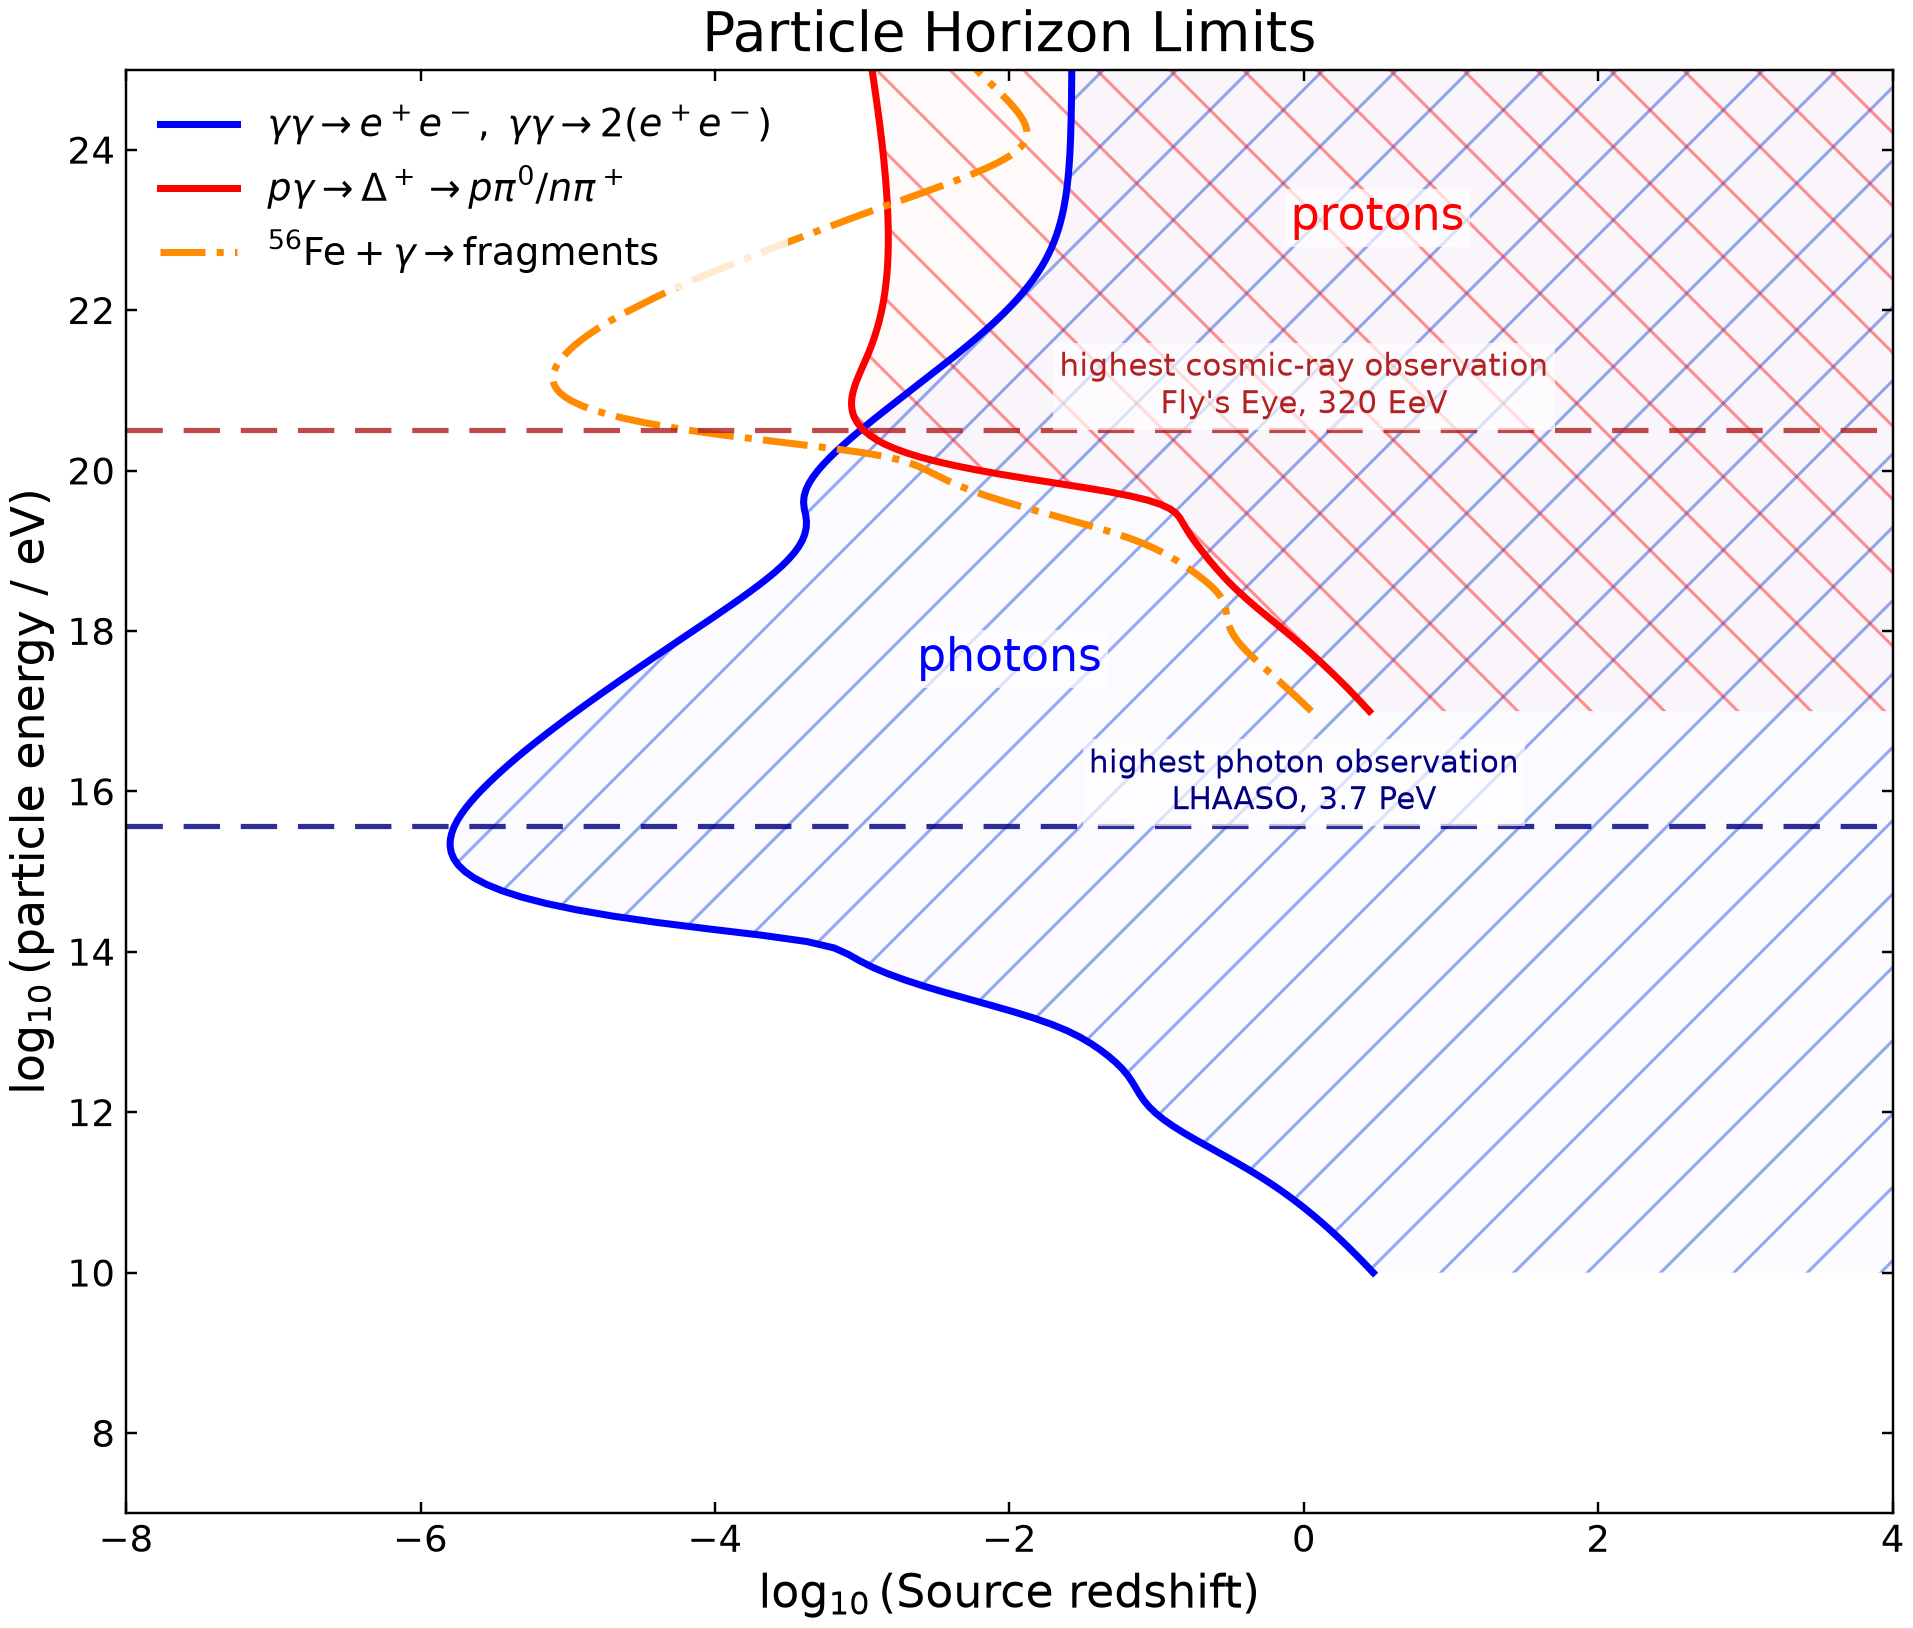
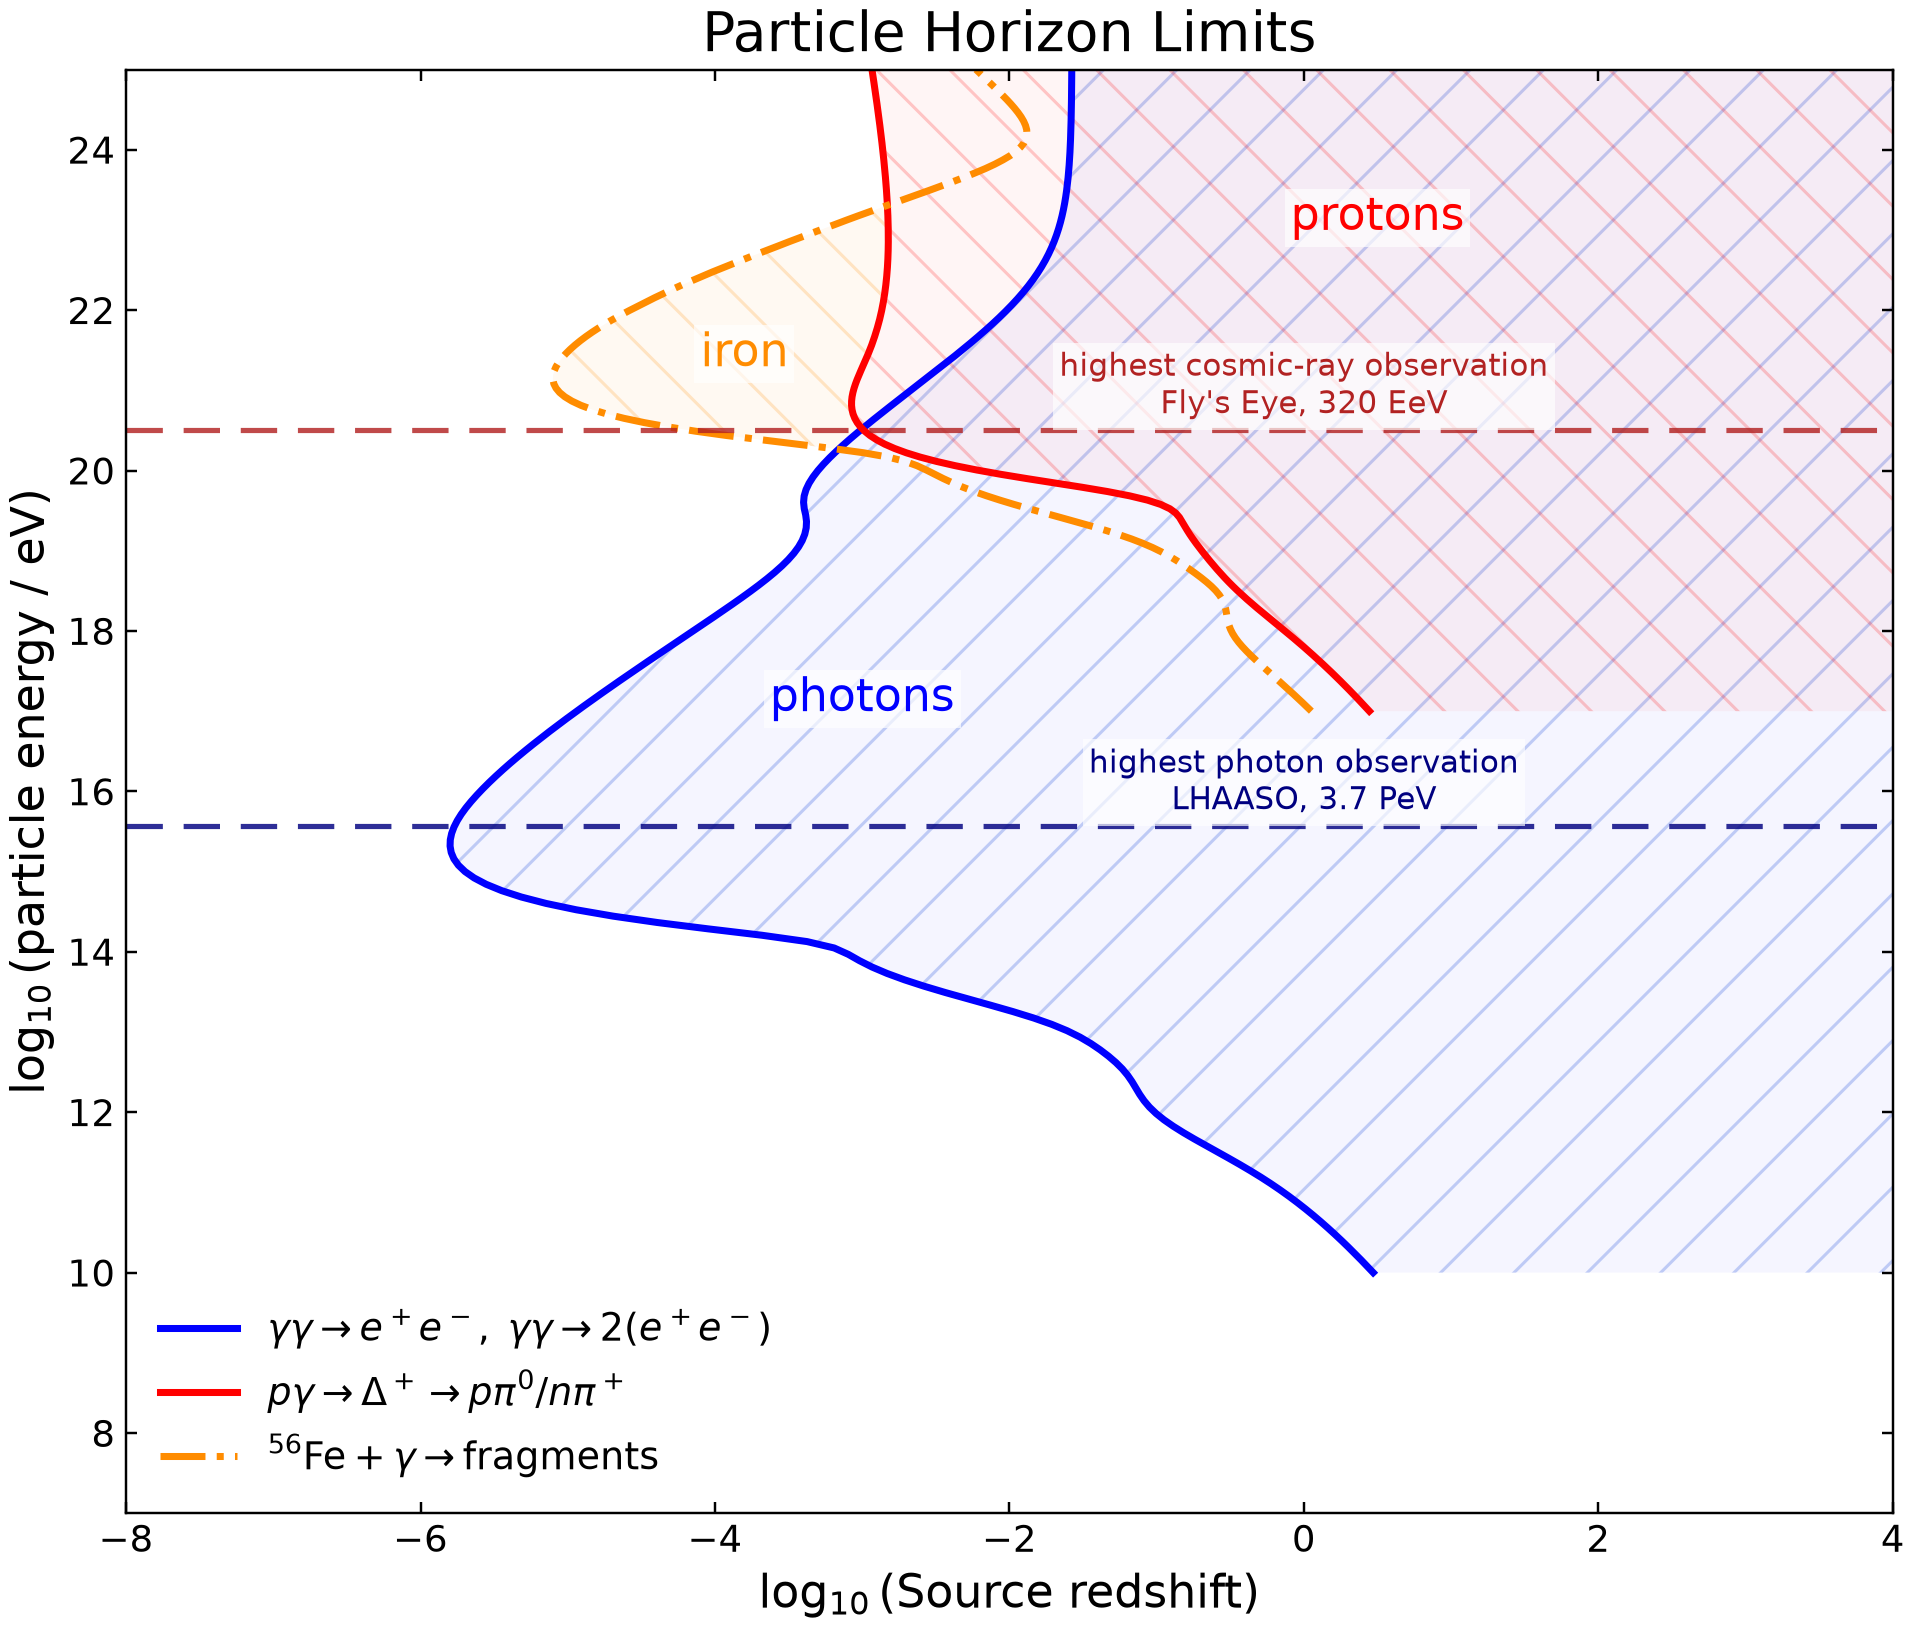
use light hatch; use darker shading

diff --git a/scripts/plot.py b/scripts/plot.py
@@ -34,6 +34,7 @@ TICK_LABEL_SIZE = 12
 TITLE_SIZE = 18
 LEGEND_SIZE = 12.5
 IRON_COLOR = "darkorange"
+IRON_FILL_ALPHA = 0.05
 IRON_LINESTYLE = "-."
 
 
@@ -48,6 +49,26 @@ def combine_rates(*tables: TabulatedRate) -> TabulatedRate:
             raise ValueError("Cannot combine tables sampled on different energy grids.")
         total += table.rates_per_mpc
     return TabulatedRate(energies, total)
+
+
+def comparison_horizon_envelope(
+    reference_energy_log: np.ndarray,
+    comparison_curves: tuple[tuple[np.ndarray, np.ndarray], ...],
+) -> np.ndarray:
+    '''
+    Interpolate comparison horizons onto a reference energy grid and return the leftmost one.
+    '''
+    envelope = np.full_like(reference_energy_log, np.inf, dtype=float)
+    for comparison_energy_log, comparison_horizon_log in comparison_curves:
+        comparison_on_reference = np.interp(
+            reference_energy_log,
+            comparison_energy_log,
+            comparison_horizon_log,
+            left=np.nan,
+            right=np.nan,
+        )
+        envelope = np.fmin(envelope, comparison_on_reference)
+    return envelope
 
 
 def compute_curves() -> dict[str, np.ndarray]:
@@ -163,7 +184,7 @@ def plot_mpc(curves: dict[str, np.ndarray], output_path: Path) -> None:
         facecolor="blue",
         edgecolor="none",
         linewidth=0.0,
-        alpha=0.02,
+        alpha=0.04,
     )
     ax.fill_betweenx(
         photon_y,
@@ -173,7 +194,7 @@ def plot_mpc(curves: dict[str, np.ndarray], output_path: Path) -> None:
         hatch="/",
         edgecolor="royalblue",
         linewidth=0.0,
-        alpha=0.60,
+        alpha=0.20,
     )
     ax.fill_betweenx(
         proton_y,
@@ -182,7 +203,7 @@ def plot_mpc(curves: dict[str, np.ndarray], output_path: Path) -> None:
         facecolor="red",
         edgecolor="none",
         linewidth=0.0,
-        alpha=0.02,
+        alpha=0.04,
     )
     ax.fill_betweenx(
         proton_y,
@@ -192,7 +213,38 @@ def plot_mpc(curves: dict[str, np.ndarray], output_path: Path) -> None:
         hatch="\\",
         edgecolor="red",
         linewidth=0.0,
-        alpha=0.42,
+        alpha=0.2,
+    )
+    comparison_envelope = comparison_horizon_envelope(
+        iron_y,
+        (
+            (photon_y, photon_x),
+            (proton_y, proton_x),
+        ),
+    )
+    iron_dominant = iron_x < comparison_envelope
+    ax.fill_betweenx(
+        iron_y,
+        iron_x,
+        comparison_envelope,
+        where=iron_dominant,
+        interpolate=True,
+        facecolor=IRON_COLOR,
+        edgecolor="none",
+        linewidth=0.0,
+        alpha=IRON_FILL_ALPHA,
+    )
+    ax.fill_betweenx(
+        iron_y,
+        iron_x,
+        comparison_envelope,
+        where=iron_dominant,
+        interpolate=True,
+        facecolor="none",
+        hatch="\\",
+        edgecolor="darkorange",
+        linewidth=0.0,
+        alpha=0.2,
     )
 
     ax.plot(photon_static_x, photon_y, color="blue", linewidth=2.0, linestyle=(0, (5, 3)), alpha=0.78)
@@ -238,6 +290,7 @@ def plot_mpc(curves: dict[str, np.ndarray], output_path: Path) -> None:
     add_record_lines(ax, label_x=3.0)
     ax.text(3.2, 23.0, "protons", color="red", fontsize=15, ha="center", bbox=LABEL_BOX)
     ax.text(0.5, 17.0, "photons", color="blue", fontsize=15, ha="center", bbox=LABEL_BOX)
+    ax.text(-0.2, 21.3, "iron", color="darkorange", fontsize=15, ha="center", bbox=LABEL_BOX)
 
     ax.set_xlabel(r"$\log_{10}$(Observable distance / Mpc)", fontsize=AXIS_LABEL_SIZE)
     ax.set_ylabel(r"$\log_{10}$(particle energy / eV)", fontsize=AXIS_LABEL_SIZE)
@@ -246,7 +299,7 @@ def plot_mpc(curves: dict[str, np.ndarray], output_path: Path) -> None:
     handles, labels = ax.get_legend_handles_labels()
     handles.append(Line2D([0], [0], color="black", linewidth=2.0, linestyle=(0, (5, 3))))
     labels.append("No Redshift Evolution")
-    ax.legend(handles, labels, loc="upper left", fontsize=LEGEND_SIZE, framealpha=0.82, facecolor="white", edgecolor="none")
+    ax.legend(handles, labels, loc="lower left", fontsize=LEGEND_SIZE, framealpha=0.82, facecolor="white", edgecolor="none")
     fig.savefig(output_path, dpi=220)
     plt.close(fig)
 
@@ -271,7 +324,7 @@ def plot_redshift(curves: dict[str, np.ndarray], output_path: Path) -> None:
         facecolor="blue",
         edgecolor="none",
         linewidth=0.0,
-        alpha=0.02,
+        alpha=0.04,
     )
     ax.fill_betweenx(
         photon_y,
@@ -281,7 +334,7 @@ def plot_redshift(curves: dict[str, np.ndarray], output_path: Path) -> None:
         hatch="/",
         edgecolor="royalblue",
         linewidth=0.0,
-        alpha=0.56,
+        alpha=0.3,
     )
     ax.fill_betweenx(
         proton_y,
@@ -290,7 +343,7 @@ def plot_redshift(curves: dict[str, np.ndarray], output_path: Path) -> None:
         facecolor="red",
         edgecolor="none",
         linewidth=0.0,
-        alpha=0.02,
+        alpha=0.04,
     )
     ax.fill_betweenx(
         proton_y,
@@ -300,7 +353,38 @@ def plot_redshift(curves: dict[str, np.ndarray], output_path: Path) -> None:
         hatch="\\",
         edgecolor="red",
         linewidth=0.0,
-        alpha=0.42,
+        alpha=0.2,
+    )
+    comparison_envelope = comparison_horizon_envelope(
+        iron_y,
+        (
+            (photon_y, photon_x),
+            (proton_y, proton_x),
+        ),
+    )
+    iron_dominant = iron_x < comparison_envelope
+    ax.fill_betweenx(
+        iron_y,
+        iron_x,
+        comparison_envelope,
+        where=iron_dominant,
+        interpolate=True,
+        facecolor=IRON_COLOR,
+        edgecolor="none",
+        linewidth=0.0,
+        alpha=IRON_FILL_ALPHA,
+    )
+    ax.fill_betweenx(
+        iron_y,
+        iron_x,
+        comparison_envelope,
+        where=iron_dominant,
+        interpolate=True,
+        facecolor="none",
+        hatch="\\",
+        edgecolor="darkorange",
+        linewidth=0.0,
+        alpha=0.2,
     )
     ax.plot(
         photon_x,
@@ -326,14 +410,15 @@ def plot_redshift(curves: dict[str, np.ndarray], output_path: Path) -> None:
     )
 
     add_record_lines(ax, label_x=0.0)
-    ax.text(-2.0, 17.5, "photons", color="blue", fontsize=15, ha="center", bbox=LABEL_BOX)
+    ax.text(-3.0, 17.0, "photons", color="blue", fontsize=15, ha="center", bbox=LABEL_BOX)
     ax.text(0.5, 23.0, "protons", color="red", fontsize=15, ha="center", bbox=LABEL_BOX)
+    ax.text(-3.8, 21.3, "iron", color="darkorange", fontsize=15, ha="center", bbox=LABEL_BOX)
 
     ax.set_xlabel(r"$\log_{10}$(Source redshift)", fontsize=AXIS_LABEL_SIZE)
     ax.set_ylabel(r"$\log_{10}$(particle energy / eV)", fontsize=AXIS_LABEL_SIZE)
     ax.set_title("Particle Horizon Limits", fontsize=TITLE_SIZE)
     ax.tick_params(which="both", direction="in", top=True, right=True, labelsize=TICK_LABEL_SIZE)
-    ax.legend(loc="upper left", fontsize=LEGEND_SIZE, framealpha=0.82, facecolor="white", edgecolor="none")
+    ax.legend(loc="lower left", fontsize=LEGEND_SIZE, framealpha=0.82, facecolor="white", edgecolor="none")
     fig.savefig(output_path, dpi=220)
     plt.close(fig)
 
